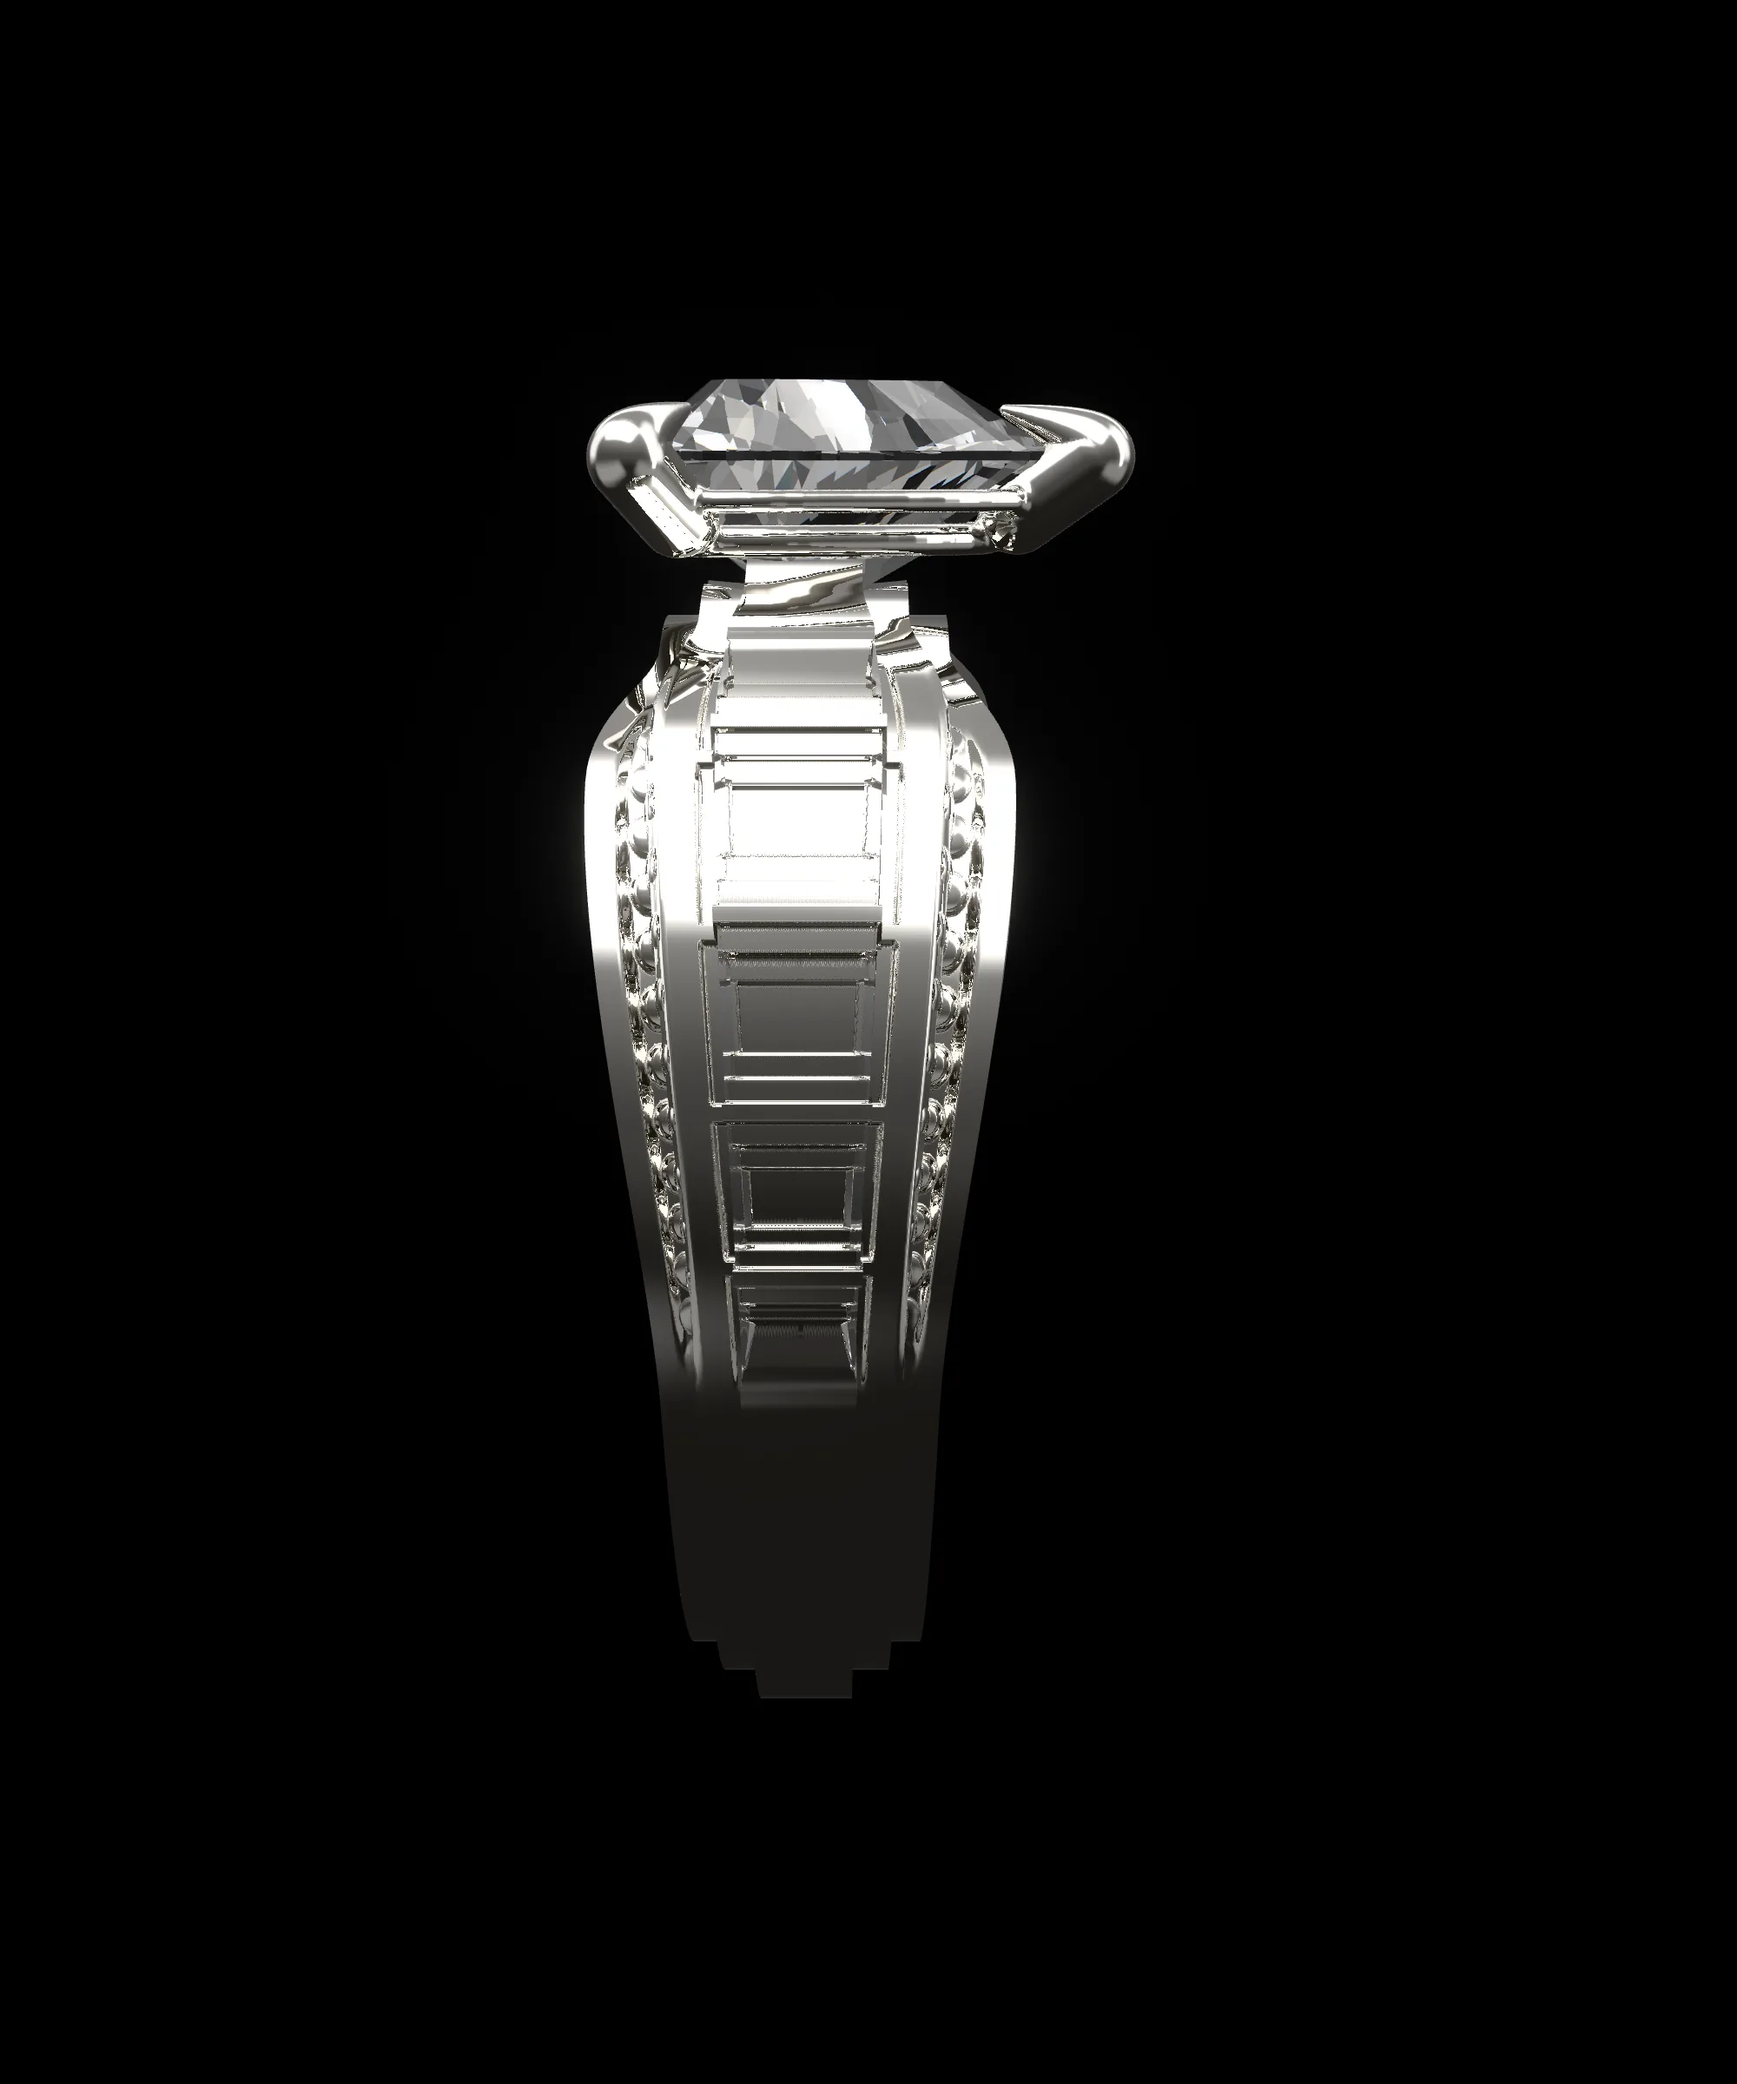
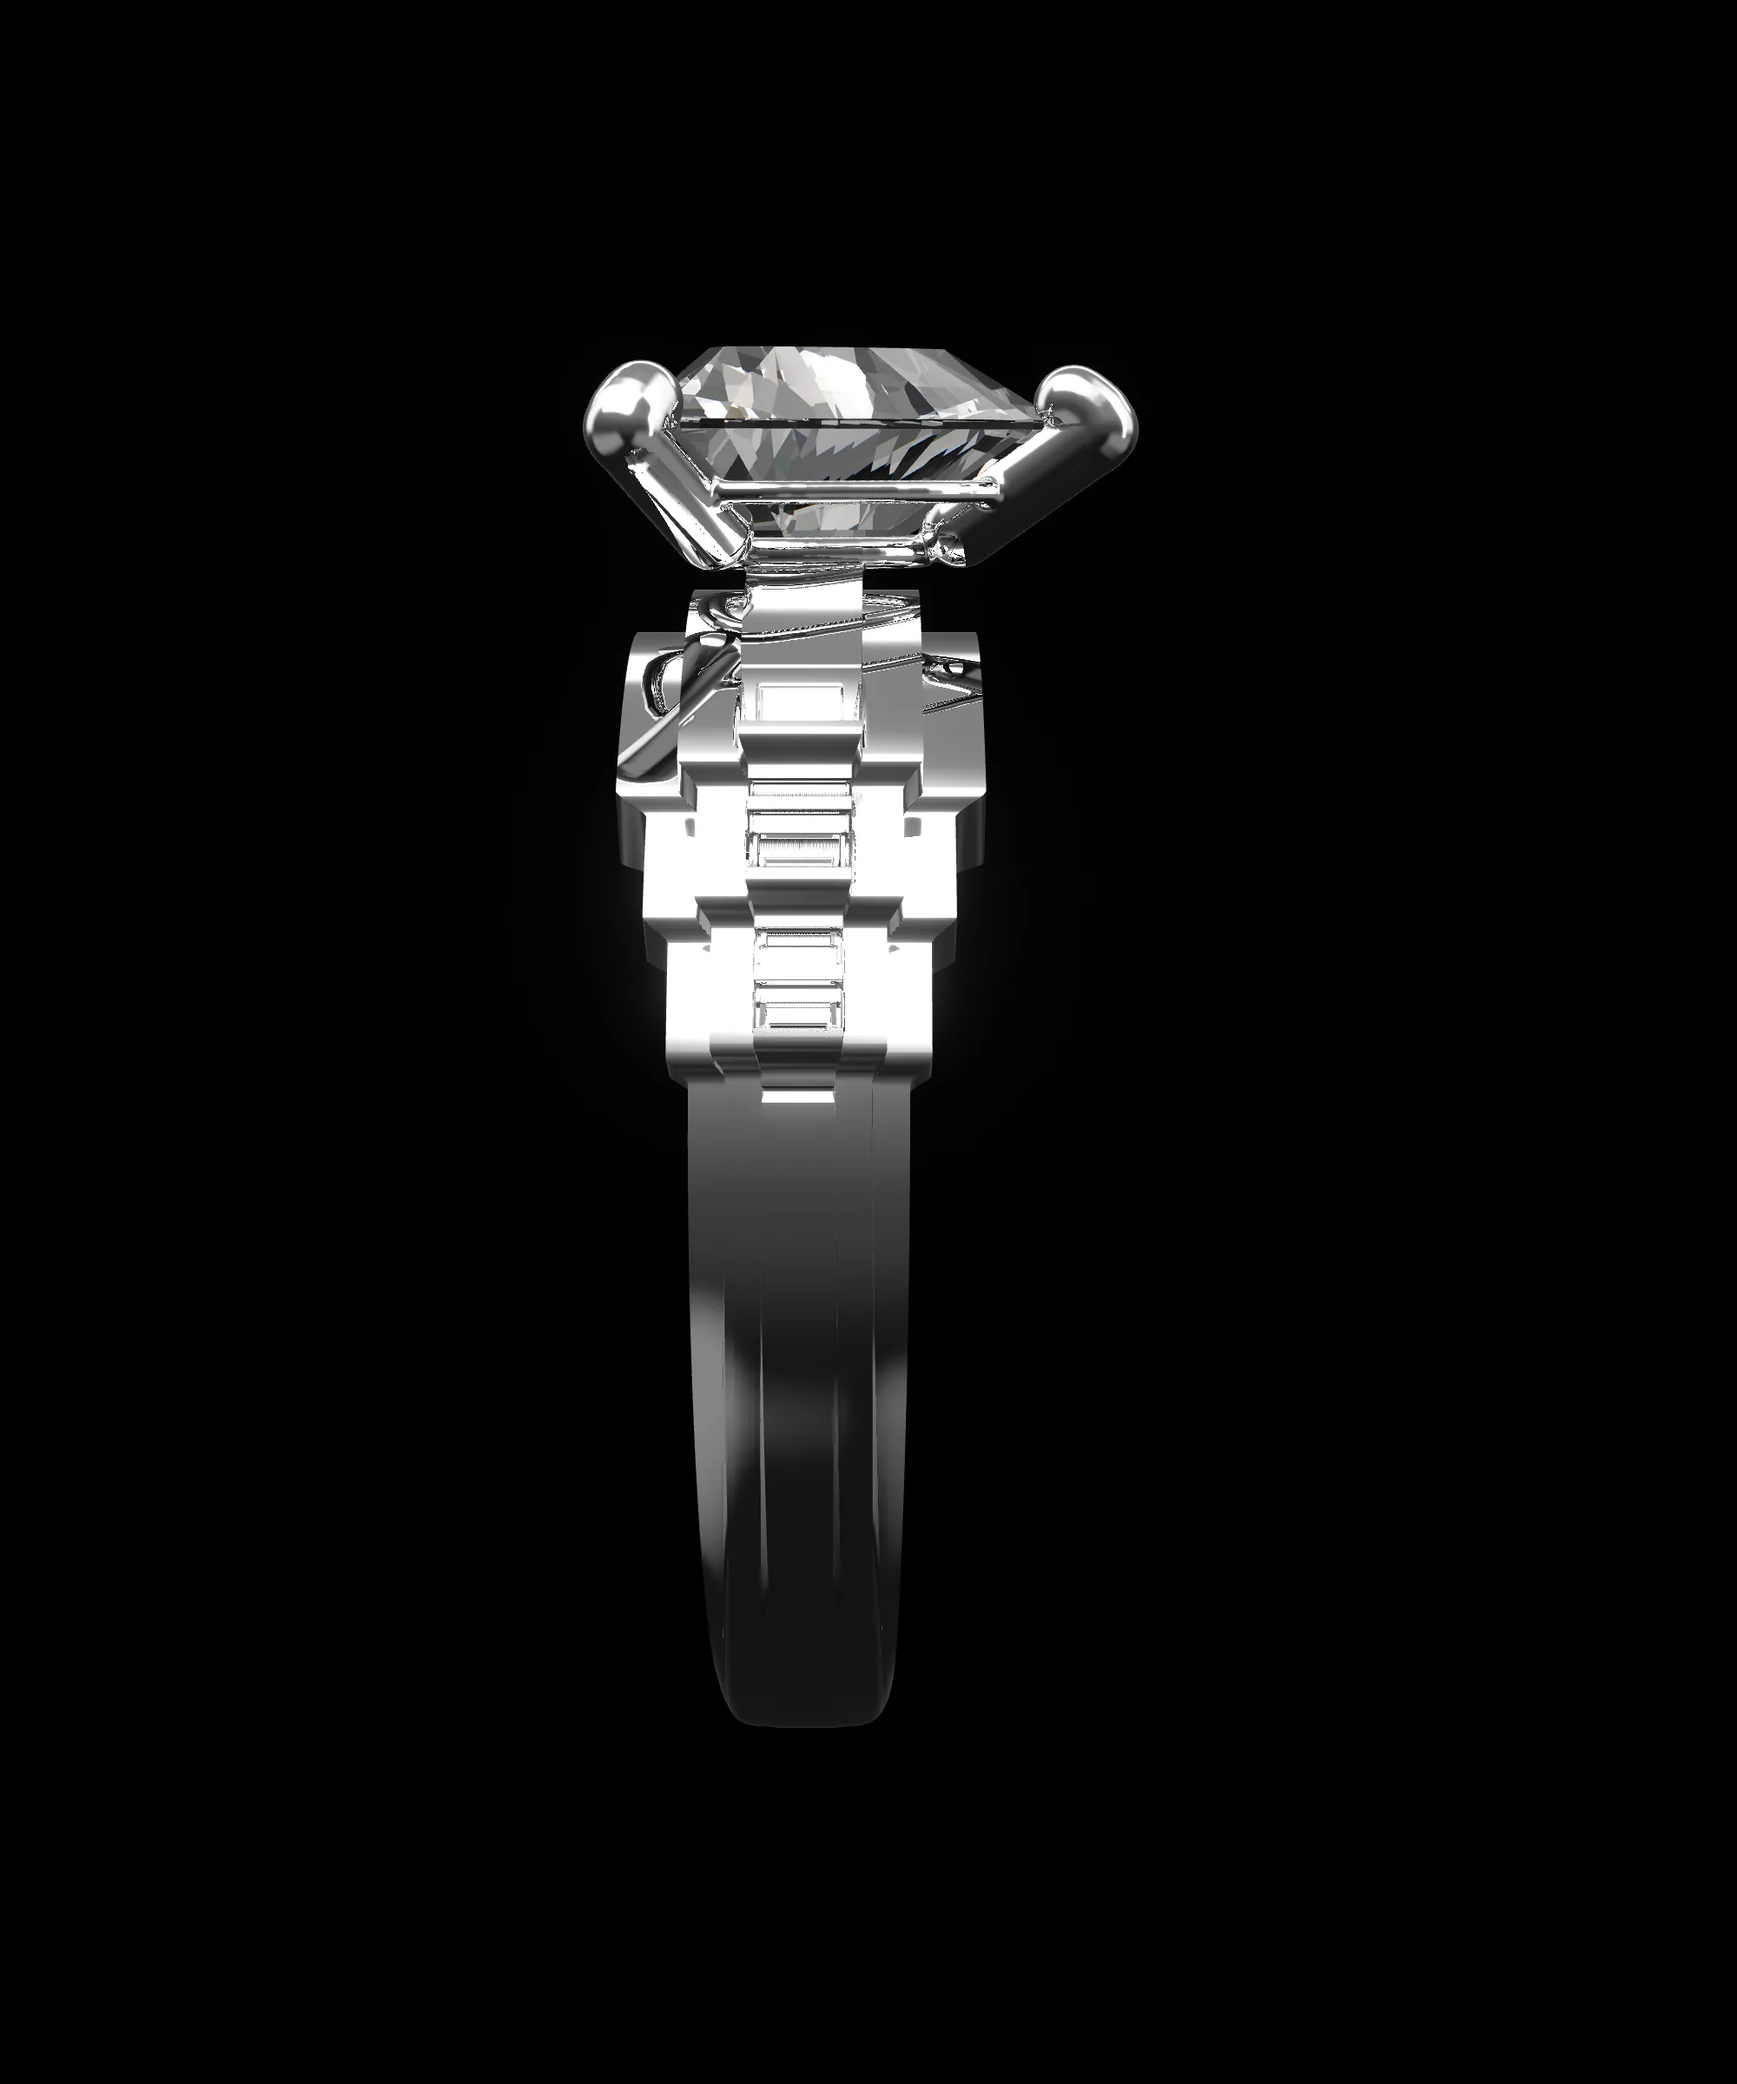
入口のページ：アールデコの見本を、作者が選んだ 9 回目（動画と同じ回）に替える
前の 5 回目（2026-11-06）は、作者が「ゴシックに見える」と言った形。調べて指示を直したあと、作者は 9 回目を選び、
動画（最終案 17、DECO_USE=16）もその回の覚えた返事で撮っている。入口のページも同じ形にそろえる。
src/lp/artdeco.json を 9 回目の記録（石と state・作業の記録・Claude 2 回・道具 3 回・作れます）に替え、
lp-shots.cjs の artdeco で 2 つの絵を撮り直した。地金が Pt900 になったので札を「プラチナ」に、絵の説明を段々の肩と四角い窓に直した。
本文の言葉はそのまま（何回目かは書かない）。幅 1440 と 390 で見た（横にはみ出さない）。

Changed region(s): [[0.31, 0.1562, 0.651, 0.8125], [0.403, 0.7812, 0.434, 0.8125]]

diff --git a/src/lp/main.ts b/src/lp/main.ts
@@ -286,8 +286,8 @@ const html = `
     <div class="feat-m rv">${crossfade(
       "wx",
       [
-        { name: "ring-artdeco", alt: "本物の Claude が「アールデコな感じ」から組んだ指輪を斜めから。段々の長方形の窓と粒の列。白い地金に三角の石", cap: "斜めから　三角の石・K18 ホワイト" },
-        { name: "ring-artdeco-front", alt: "同じ指輪を正面から。段の窓と粒の列が左右対称に並ぶ", cap: "正面から　段の窓と粒" },
+        { name: "ring-artdeco", alt: "本物の Claude が「アールデコな感じ」から組んだ指輪を斜めから。石座から段々に下がる肩と、段ごとの四角い窓。白い地金に三角の石", cap: "斜めから　三角の石・プラチナ" },
+        { name: "ring-artdeco-front", alt: "同じ指輪を正面から。段々に下がる肩に、四角い窓が段ごとに並ぶ", cap: "正面から　段の肩と四角い窓" },
       ],
       "(max-width: 760px) 92vw, 520px",
       { cls: "xf-dark xf-tall", every: 4000 },
